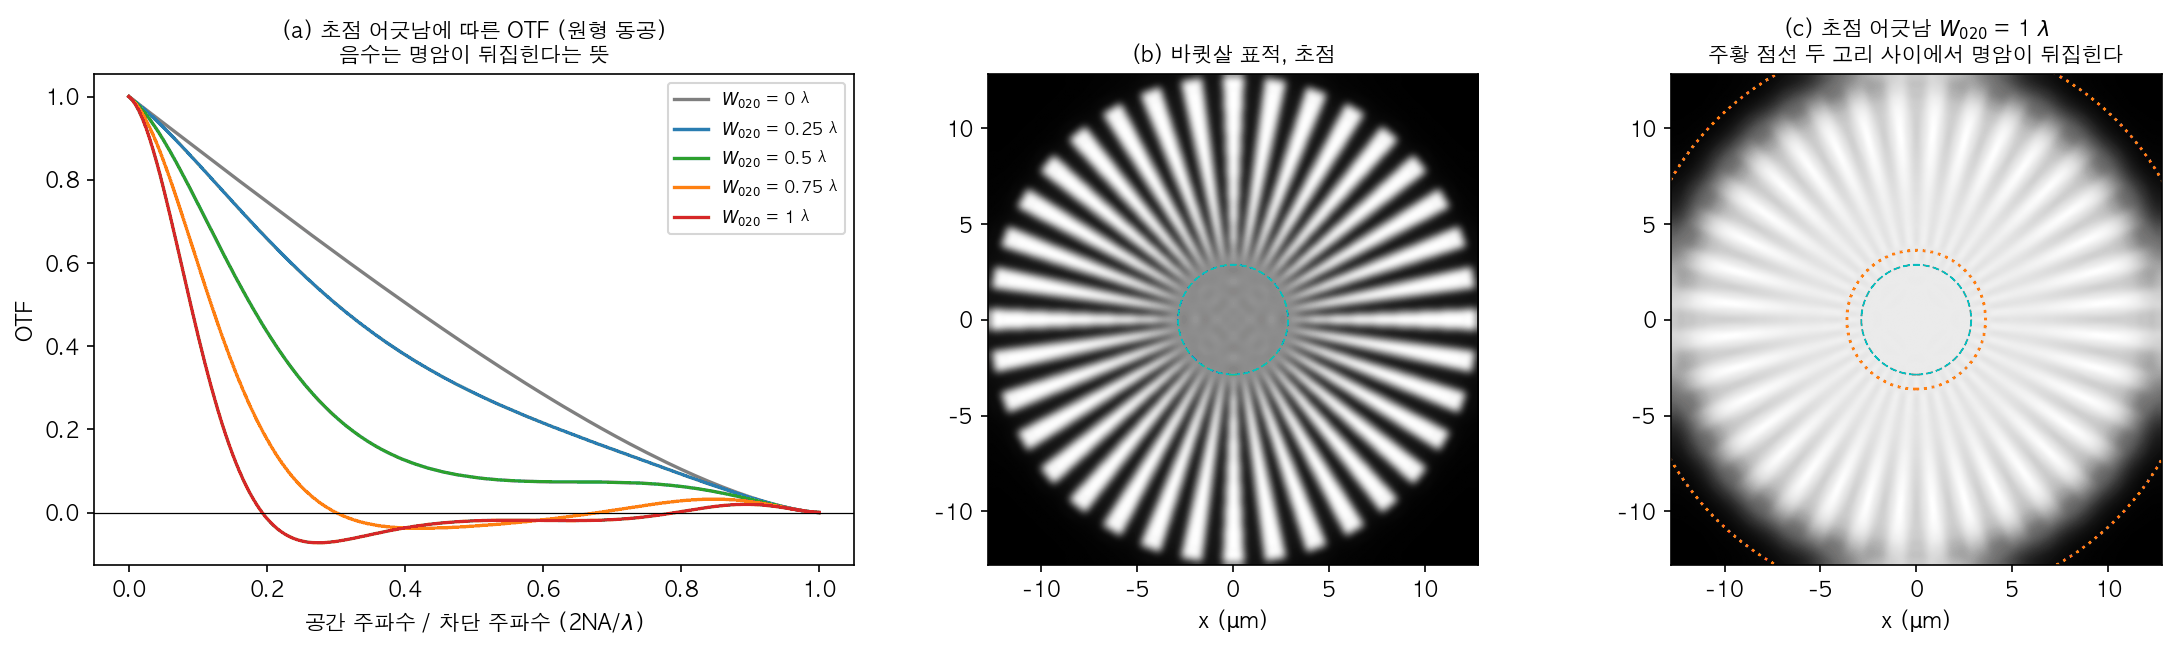
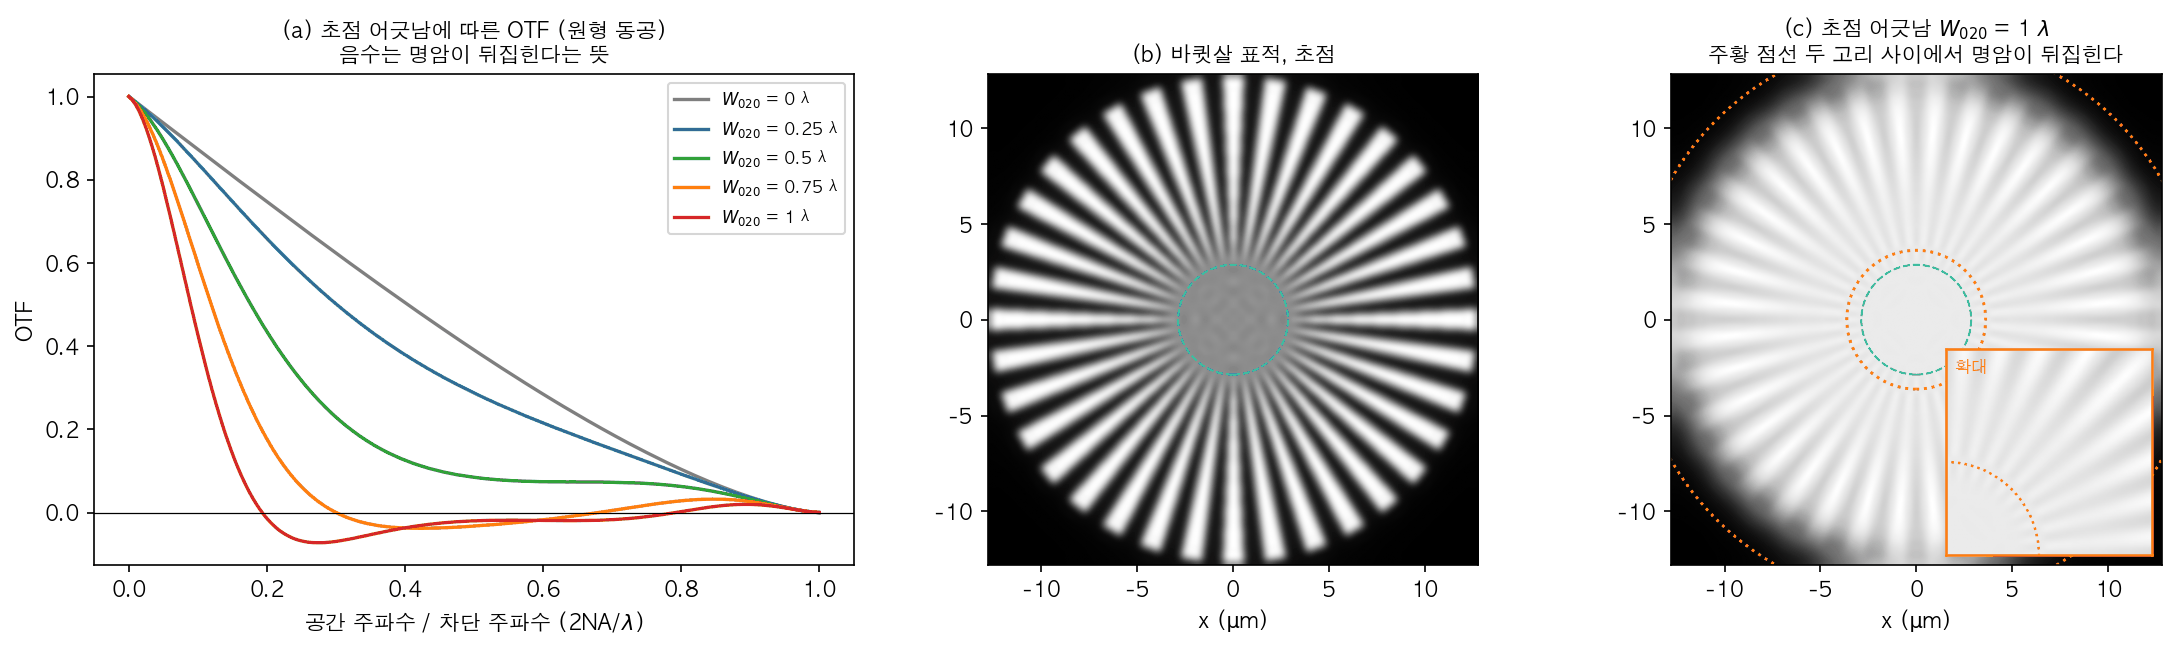
fix(post): wave-optics-fourier-imaging — 그림 다시 생성(범례·라벨 겹침, 그림 속 번호·캡션 제거) 및 캡션·본문
그림을 다시 그려야 고칠 수 있던 경미 항목을 고쳤다. 데이터와 계산은 바꾸지 않았다.

근거: _references/wave-optics-fourier-imaging/audit-20261015.md (B 경미), 목록 _references/_fig-queue-20261015.md

diff --git a/_code/wave-optics-fourier-imaging/generate_figures.py b/_code/wave-optics-fourier-imaging/generate_figures.py
@@ -87,7 +87,7 @@ def figure2(L):
     for z, txt in [(0.5, "f"), (1.5, "f"), (2.5, "f"), (3.5, "f")]:
         a.annotate("", xy=(z - 0.5, -1.25), xytext=(z + 0.5, -1.25), arrowprops=dict(arrowstyle="<->", lw=0.7))
         a.text(z, -1.22, txt, ha="center", va="bottom", fontsize=9)
-    a.text(2.1, -0.6, t(L, "같은 방향의\n빛은 한 점에", "one direction\n→ one point"), fontsize=8.5, color=C_RED, va="center", **font(L))
+    a.text(2.08, -0.6, t(L, "같은 방향의\n빛은\n한 점에", "one\ndirection\n→ one\npoint"), fontsize=8.5, color=C_RED, va="center", **font(L))
     a.set_xlim(-0.3, 4.4)
     a.set_ylim(-1.9, 1.6)
     a.axis("off")
@@ -113,11 +113,11 @@ def figure2(L):
     c.set_ylim(-1.4, 1.4)
     c.add_patch(mpatches.Circle((0, 0), NA / LAM, fill=False, ec="c", ls="--", lw=1))
     c.set_xlabel(t(L, "공간 주파수 (주기/µm)", "spatial frequency (cycles/µm)"), **font(L))
-    c.set_title(t(L, "(c) 후초점면의 세기 (로그)\n점선: NA 0.5 렌즈가 받는 범위", "(c) Back-focal-plane intensity (log)\ndashes: what an NA 0.5 lens accepts"), fontsize=10, **font(L))
+    c.set_title(t(L, "(c) 후초점면의 세기 (로그)\n점선: NA 0.5 렌즈가 받는 범위", "(c) Back-focal-plane\nintensity (log); dashes:\nwhat an NA 0.5 lens accepts"), fontsize=10, **font(L))
     d = fig.add_subplot(gs[3])
     Ic = np.abs(coherent_image(obj.astype(complex), dx, NA, LAM)) ** 2
     d.imshow(Ic, cmap="gray", extent=ext, origin="lower", vmax=1.2)
-    d.set_title(t(L, "(d) 점선 안만 지난 상 (결맞음)\n가로 줄무늬(주기 0.8 µm)가 사라졌다", "(d) Image from inside the circle (coherent)\nthe 0.8 µm horizontal stripes are gone"), fontsize=10, **font(L))
+    d.set_title(t(L, "(d) 점선 안만 지난 상 (결맞음)\n가로 줄무늬(주기 0.8 µm)가 사라졌다", "(d) Image from inside\nthe circle (coherent):\n0.8 µm stripes are gone"), fontsize=10, **font(L))
     d.set_xlabel("x (µm)")
     save(fig, L, "fig2-lens-fourier-4f.png")
 
@@ -393,6 +393,19 @@ def figure7(L):
             r_hi, r_lo = (36 / (2 * np.pi * neg.min()), 36 / (2 * np.pi * neg.max()))
             for rr in (r_lo, r_hi):
                 ax.add_patch(mpatches.Circle((0, 0), rr, fill=False, ec=C_KEY, ls=":", lw=1.4))
+            # 확대 삽입: 이미 계산한 영상 I 의 오른쪽 위 쪽 일부를 크게 보여 준다 (반전 고리 두 개가 걸리는 창)
+            lim = 8.0                                  # 영상 안쪽(±12.8 µm)에서 첫 고리 둘레를 크게
+            ins = ax.inset_axes([0.56, 0.02, 0.42, 0.42])
+            ins.imshow(I, cmap="gray", origin="lower", extent=[-n * dx / 2, n * dx / 2] * 2)
+            ins.set_xlim(0.0, lim)
+            ins.set_ylim(0.0, lim)
+            for rr in (r_lo, r_hi):
+                ins.add_patch(mpatches.Circle((0, 0), rr, fill=False, ec=C_KEY, ls=":", lw=1.2))
+            ins.set_xticks([]); ins.set_yticks([])
+            for sp in ins.spines.values():
+                sp.set_edgecolor(C_KEY)
+                sp.set_linewidth(1.2)
+            ins.text(0.04, 0.95, t(L, "확대", "zoom"), transform=ins.transAxes, color=C_KEY, fontsize=8, va="top", **font(L))
             print(f"    그림7(c): OTF<0 구간 반지름 {r_lo:.2f}–{r_hi:.2f} µm (주파수 {neg.min()/(2*NA/LAM):.2f}–{neg.max()/(2*NA/LAM):.2f} 차단)")
     fig.tight_layout()
     save(fig, L, "fig7-defocus-mtf-spoke.png", palette=True)

diff --git a/_posts/2026-12-09-wave-optics-fourier-imaging-en.md b/_posts/2026-12-09-wave-optics-fourier-imaging-en.md
@@ -157,7 +157,7 @@ So how far should it be opened? The conclusion first: there is no single right a
 Take the most common aberration, defocus. Defocus is the pupil phase $W_{020}\rho^2$, and in the paraxial case it is related to the distance $z$ from the focal plane by $W_{020} = \tfrac{1}{2}\mathrm{NA}^2 z$ [2].
 
 <img src="/assets/img/posts/wave-optics-fourier-imaging/en/fig7-defocus-mtf-spoke.png" alt="OTF curves with defocus and images of a spoke target" width="780">
-_Figure 7. (a) OTF of a circular pupil with defocus $$W_{020}$$ set to 0, 0.25, 0.5, 0.75 and 1 λ (incoherent imaging). At 0.75 λ and 1 λ there are ranges where the OTF becomes negative. (b) Image of a target with 36 spokes (in focus). Inside the cyan dashed circle the spokes are spaced more finely than the cutoff frequency and smear into grey. (c) The same target with $$W_{020}$$ = 1 λ. The spokes blur. The region between the two orange dotted rings (radius 3.6–14.7 µm) corresponds to the frequencies where the OTF is negative. The negative values are small, so the contrast reversal appears only weakly on the blurred spokes._
+_Figure 7. (a) OTF of a circular pupil with defocus $$W_{020}$$ set to 0, 0.25, 0.5, 0.75 and 1 λ (incoherent imaging). At 0.75 λ and 1 λ there are ranges where the OTF becomes negative. (b) Image of a target with 36 spokes (in focus). Inside the cyan dashed circle the spokes are spaced more finely than the cutoff frequency and smear into grey. (c) The same target with $$W_{020}$$ = 1 λ. The spokes blur. The region between the two orange dotted rings (radius 3.6–14.7 µm; the outer ring lies outside the image) corresponds to the frequencies where the OTF is negative. The inset at lower right enlarges the quadrant out to a radius of 8 µm. The negative values are small, so the contrast reversal appears only weakly on the blurred spokes._
 
 In Figure 7(a), the more the focus is off, the more the OTF collapses, starting from high frequencies. At 0.25 λ (Rayleigh's quarter-wave criterion) the curve is still gentle, but at 1 λ it already crosses 0 near 1/5 of the cutoff and goes negative. A negative OTF means reversed contrast: places that should be bright are dark and places that should be dark are bright. This can be followed in the spoke target (c). The spokes are thick on the outside and thin on the inside, so the spatial frequency changes along the radius, and in the rings corresponding to frequencies where the OTF is negative the contrast of the spokes flips [4]. For a circular pupil, this calculation shows the OTF first going negative when $W_{020}$ exceeds about 0.64 λ. For a square pupil the threshold is λ/2 [4]. Converting 0.64 λ with the relation above gives $z \approx 1.3\lambda/\mathrm{NA}^2$. In Part 3, Section 5, the distance at which the on-axis intensity first reaches 0 was $2\lambda/\mathrm{NA}^2$, so stripe contrast already begins to reverse somewhat closer than that. At NA 0.5 and 500 nm it is about 2.6 µm.
 
